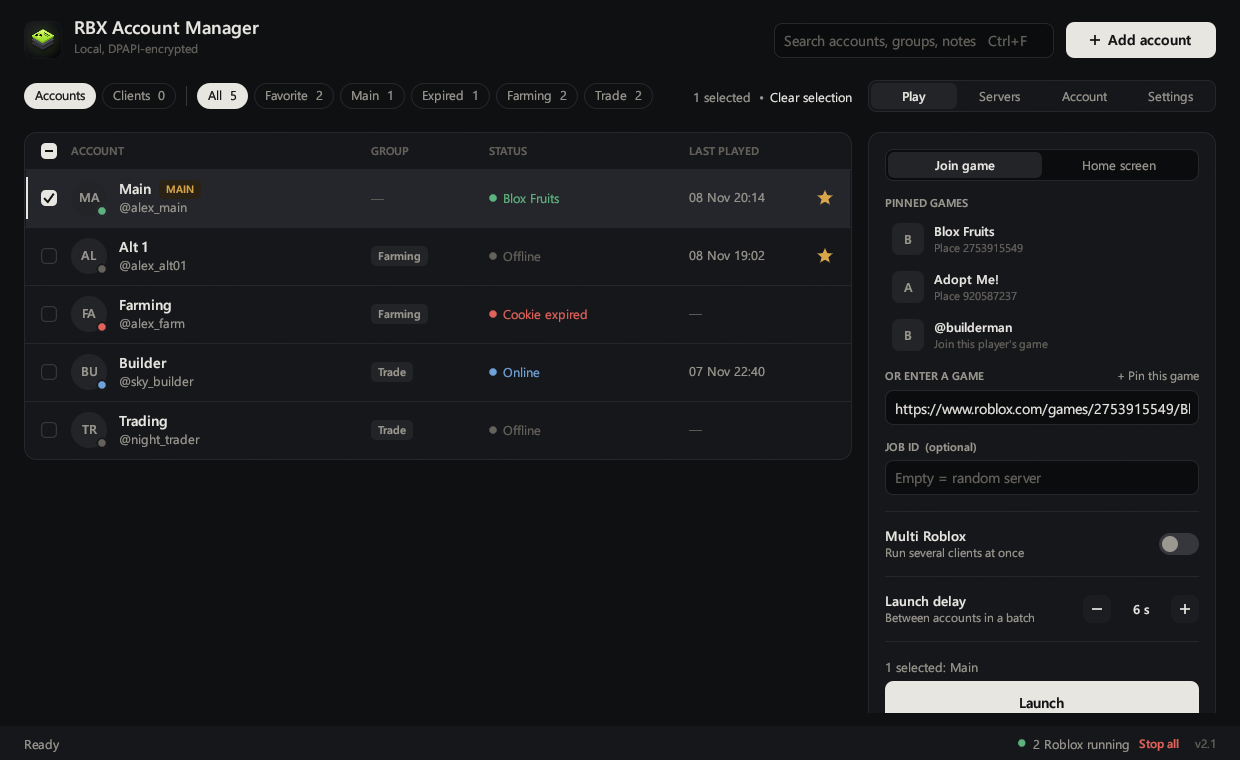
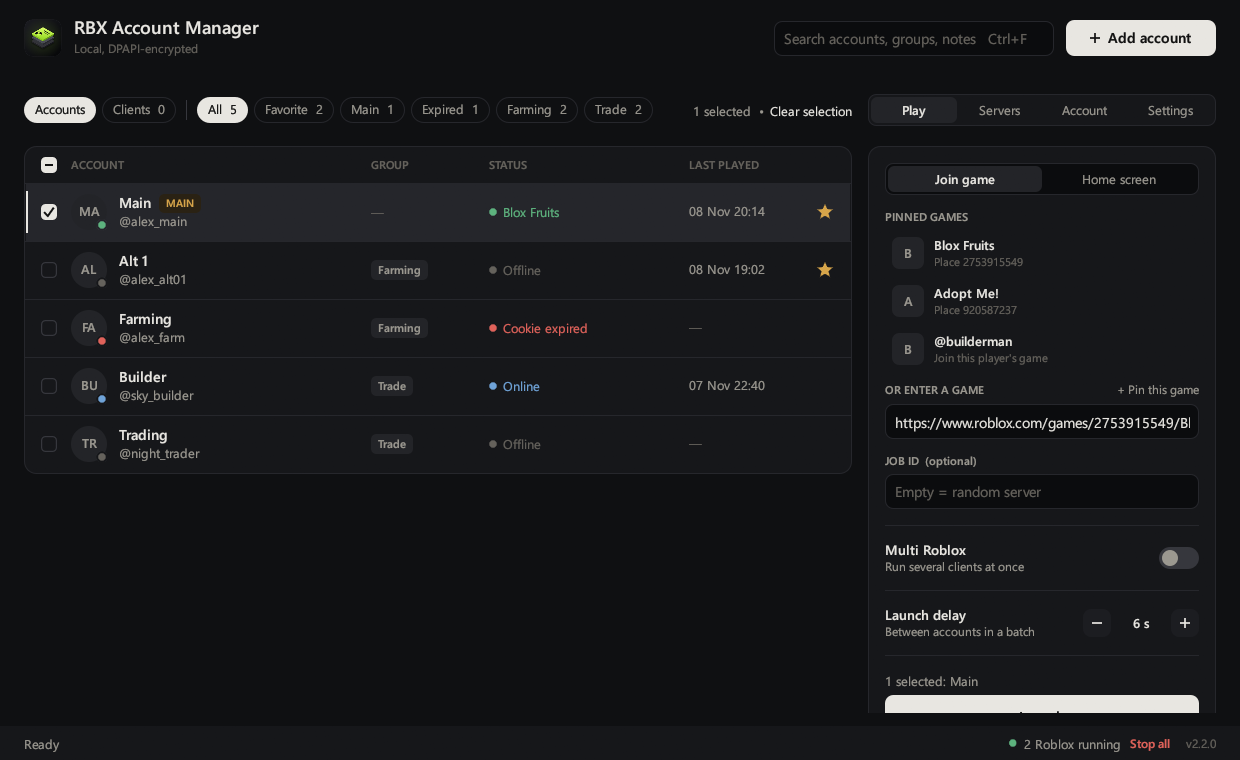
Release v2.2.0
Version label and HTTP user agent now come from Cargo.toml.

diff --git a/src/main.rs b/src/main.rs
@@ -1,5 +1,5 @@
 // =====================================================================
-//  RBX Account Manager v2.1 (Rust + egui)
+//  RBX Account Manager (Rust + egui), version in Cargo.toml
 //  - Account data is encrypted with Windows DPAPI: only this Windows user
 //    on this PC can decrypt it.
 //  - Talks ONLY to roblox.com (+ rbxcdn.com for avatar/game images).
@@ -1731,7 +1731,7 @@ impl App {
                         ui.label(RichText::new("Ready").font(rg(12.5)).color(MUTED()));
                     }
                     ui.with_layout(Layout::right_to_left(Align::Center), |ui| {
-                        ui.label(RichText::new("v2.1").font(rg(12.0)).color(FAINT()));
+                        ui.label(RichText::new(concat!("v", env!("CARGO_PKG_VERSION"))).font(rg(12.0)).color(FAINT()));
                         ui.add_space(8.0);
                         if self.running > 0 {
                             if ui

diff --git a/src/roblox.rs b/src/roblox.rs
@@ -57,7 +57,7 @@ pub(crate) fn agent() -> Result<ureq::Agent, String> {
         .tls_connector(Arc::new(tls))
         .redirects(0)
         .timeout(Duration::from_secs(20))
-        .user_agent("Mozilla/5.0 (Windows NT 10.0; Win64; x64) RBXAccountManager/2.1")
+        .user_agent(concat!("Mozilla/5.0 (Windows NT 10.0; Win64; x64) RBXAccountManager/", env!("CARGO_PKG_VERSION")))
         .build())
 }
 
